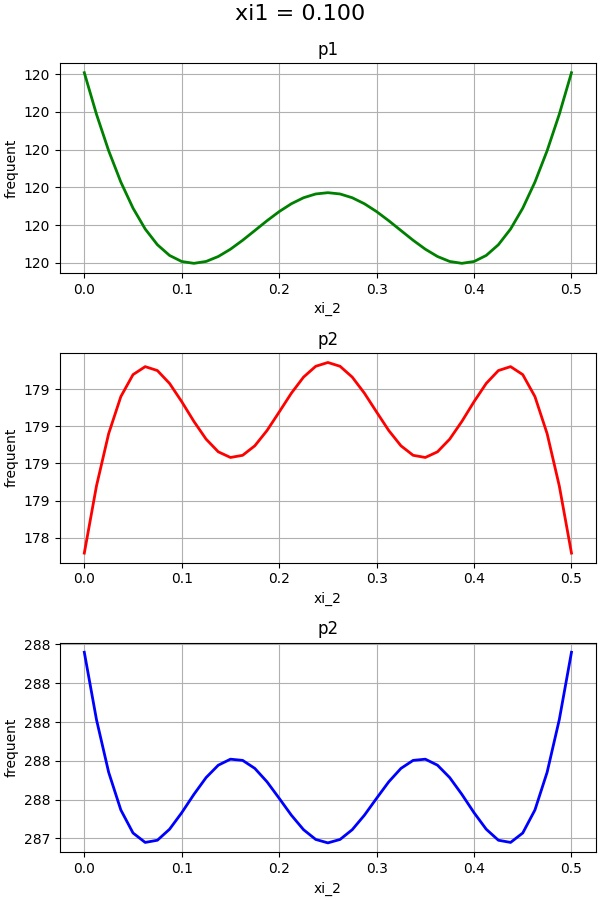
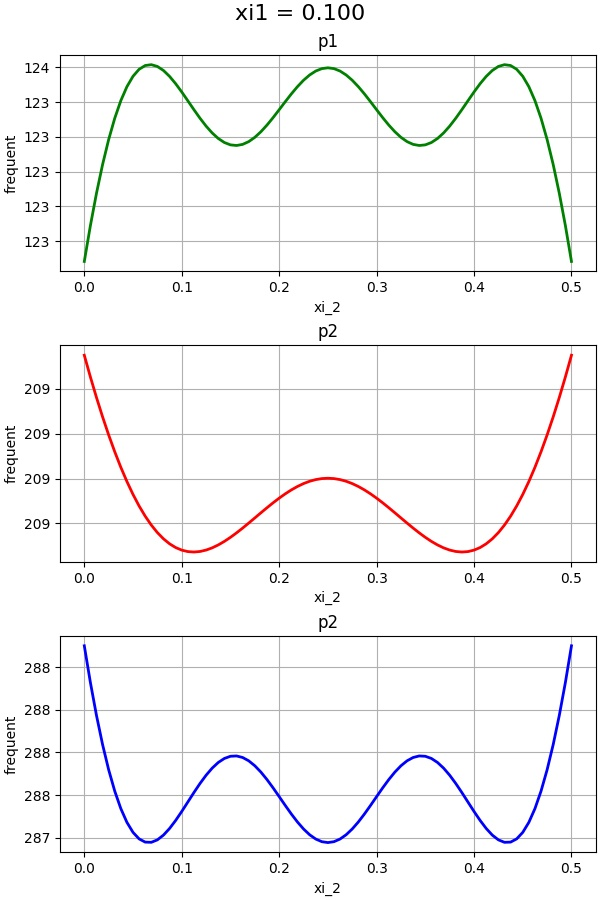
Исправленные коэффициенты

diff --git a/Plate/SubsValues.py b/Plate/SubsValues.py
@@ -4,7 +4,7 @@ from sympy import symbols, Matrix, sqrt
 
 
 def subs_values():
-    a, b, E, mu, D, k, k_rez, rho, h, p0, b_a, h_r, k0, N0, m0 = symbols('a b E mu D k k_rez rho h p0_2 b_a h0 k0 N0 m0', real=True)
+    a, b, E, mu, D, k, k_rez, k_len, rho, h, p0, b_a, h_r, k0, N0, m0 = symbols('a b E mu D k k_rez k_len rho h p0_2 b_a h0 k0 N0 m0', real=True)
     M_rol, A_len, l_len, E_len, h_r = symbols('M_rol A_len l_len E_len h_r', real=True)
     kappa1, kappa2, kappa3, kappa4 = symbols('kappa1 kappa2 kappa3 kappa4', real=True)
     """
@@ -14,7 +14,6 @@ def subs_values():
         k - жесткость пружин Ролика и Пластины (конусная бабка моделируется пружиной)
         k_rez - коэффициент резания = предел текучести материала пластины * ширину ленты
         k_len - жесткость поджатия пружины
-        k_rez - жесткость "резания"
         rho - плотность материала пластины
         h - толщина пластины
 
@@ -35,8 +34,8 @@ def subs_values():
     values[k0] = values[h_r] / values[a]
     kappa = dict()
     values[p0] = sqrt(values[D] / (values[rho] * values[h] * values[a] ** 4))
-    kappa[kappa1] = (values[k] + values[E_len] * values[A_len] / values[l_len]) / (values[M_rol] * values[p0])
-    kappa[kappa2] = (values[k_rez]) / (values[M_rol] * values[p0])
+    kappa[kappa1] = (values[k_len] + values[E_len] * values[A_len] / values[l_len]) / (values[M_rol] * values[p0]**2)
+    kappa[kappa2] = (values[k_rez]) / (values[M_rol] * values[p0]**2)
     kappa[kappa3] = (values[k] * values[a] ** 2) / (values[D])
     kappa[kappa4] = (values[k_rez] * values[a] ** 2) / (values[D])
 
@@ -53,7 +52,62 @@ def subs_values():
     M = M.subs(mu, values[mu])
     C = C.subs(mu, values[mu])
     F = F.subs(k0, values[k0])
-    coeffs = np.array([values[N0]/(values[m0] * values[p0]**2 * values[a]**2), values[A_len] * values[E_len]/(values[m0] * values[p0]**2 * values[a]**2)])
+    coeffs = np.array([values[N0]/(values[m0] * values[p0]**2 * values[a]**2), values[A_len] * values[E_len]/(values[m0] * values[p0]**2 * values[a]**2), values[k0]])
     print(kappa)
     print(values)
     return M, C, F, float(values[b] / values[a]), coeffs
+
+
+def subs_values_no_force():
+    a, b, E, mu, D, k, k_rez, k_len, rho, h, p0, b_a, h_r, k0, N0, m0 = symbols('a b E mu D k k_rez k_len rho h p0_2 b_a h0 k0 N0 m0', real=True)
+    M_rol, A_len, l_len, E_len, h_r = symbols('M_rol A_len l_len E_len h_r', real=True)
+    kappa1, kappa2, kappa3, kappa4 = symbols('kappa1 kappa2 kappa3 kappa4', real=True)
+    """
+        a - длина пластины
+        b - ширина пластины
+        E, mu, D - модуль Юнга, коэффициент Пуассона, цилиндрическая жесткость пластины
+        k - жесткость пружин Ролика и Пластины (конусная бабка моделируется пружиной)
+        k_rez - коэффициент резания = предел текучести материала пластины * ширину ленты
+        k_len - жесткость поджатия пружины
+        rho - плотность материала пластины
+        h - толщина пластины
+
+        M_rol - масса ролика
+        A_len - площадь сечения ленты
+        l_len - длина ленты (расстояние от шарнира до ролика)
+        E_len - модуль Юнга ленты
+        h_r - толшина резания (толщина снимаемого слоя материала)
+        m0 - плотность ленты
+        N0 - сила преднатяга ленты
+        V - скорость ленты
+
+    """
+    # считываем характеристики материалов и прочее из файла data.txt
+    values = read_data()
+
+    values[D] = values[E] * values[h] ** 3 / (12 * (1 - values[mu] ** 2))
+    values[k0] = values[h_r] / values[a]
+    kappa = dict()
+    values[p0] = sqrt(values[D] / (values[rho] * values[h] * values[a] ** 4))
+    kappa[kappa1] = (values[k_len] + values[E_len] * values[A_len] / values[l_len]) / (values[M_rol] * values[p0]**2)
+    kappa[kappa2] = 0
+    kappa[kappa3] = (values[k] * values[a] ** 2) / (values[D])
+    kappa[kappa4] = 0
+
+    # загружаем матрицы масс и жесткости
+    M = Matrix(np.load(r"F:\NIR_4th_semestr\M_Matrix.npy", allow_pickle=True))
+    C = Matrix(np.load(r"F:\NIR_4th_semestr\C_Matrix.npy", allow_pickle=True))
+    F = Matrix(np.load(r"F:\NIR_4th_semestr\F_vector.npy", allow_pickle=True))
+    # подставляем значения параметров в матрицы (кроме координат контакта)
+    for x in kappa:
+        M = M.subs(x, kappa[x])
+        C = C.subs(x, kappa[x])
+        F = F.subs(x, kappa[x])
+
+    M = M.subs(mu, values[mu])
+    C = C.subs(mu, values[mu])
+    F = F.subs(k0, values[k0])
+    coeffs = np.array([values[N0]/(values[m0] * values[p0]**2 * values[a]**2), values[A_len] * values[E_len]/(values[m0] * values[p0]**2 * values[a]**2), values[k0]])
+    print(kappa)
+    print(values)
+    return M, C, F

diff --git a/amplitude_force/amplitude.py b/amplitude_force/amplitude.py
@@ -1,29 +1,55 @@
 from scipy.integrate import odeint
 import matplotlib.pyplot as plt
 from sympy import symbols, Matrix
-from Plate.SubsValues import subs_values
+from Plate.SubsValues import subs_values, subs_values_no_force
 import numpy as np
 import time
 
 xi1__, xi2__ = symbols('xi1__ xi2__', real=True)
-M, C, F, b_a, f0_kappa0 = subs_values()
-xi1, xi2 = 0.6, 0.3
+M, C, F, b_a, f0_kappa0_k0 = subs_values()
+M_nf, C_nf, F_nf = subs_values_no_force()
+
+xi1, xi2 = 0.5, 0.3
 M = M.subs([(xi1__, xi1), (xi2__, xi2)])
 C = C.subs([(xi1__, xi1), (xi2__, xi2)])
 F = F.subs([(xi1__, xi1), (xi2__, xi2)])
+
+M_nf = M_nf.subs([(xi1__, xi1), (xi2__, xi2)])
+C_nf = C_nf.subs([(xi1__, xi1), (xi2__, xi2)])
+F_nf = F_nf.subs([(xi1__, xi1), (xi2__, xi2)])
+
+
 print(M)
 print(C)
 print(F)
-vect = np.array(M.inv() * F)
-matr = np.array(M.inv() * C)
+vect_plus = np.array(M.inv() * F)
+vect_minus = np.array(M_nf.inv() * F_nf)
+
+matr_plus = np.array(M.inv() * C)
+matr_minus = np.array(M_nf.inv() * C_nf)
+
 print()
-print(matr)
-print(vect)
+print(matr_plus)
+print(vect_plus)
+print()
+print(f0_kappa0_k0)
+u1 = np.load(r"F:\NIR_4th_semestr\U1.npy", allow_pickle=True)
+u2 = np.load(r"F:\NIR_4th_semestr\U2.npy", allow_pickle=True)
+
+u1 = u1[0].subs([(xi1__, xi1), (xi2__, xi2)])
+u2 = u2[0].subs([(xi1__, xi1), (xi2__, xi2)])
 
 
 def system(y, t):
     etta, d_etta, f1, d_f1, f2, d_f2 = y
-    dydt = [d_etta, vect[0][0] - (matr[0][0]*etta + matr[0][1]*f1 + matr[0][2]*f2), d_f1, vect[1][0] - ((matr[1][0]*etta + matr[1][1]*f1 + matr[1][2]*f2)),d_f2, vect[2][0] - ((matr[2][0]*etta + matr[2][1]*f1 + matr[2][2]*f2))]
+    if etta - u1*f1 - u2*f2 - f0_kappa0_k0[2] > 0:
+        dydt = [d_etta, vect_plus[0][0] - (matr_plus[0][0] * etta + matr_plus[0][1] * f1 + matr_plus[0][2] * f2),
+                d_f1, vect_plus[1][0] - (matr_plus[1][0] * etta + matr_plus[1][1] * f1 + matr_plus[1][2] * f2),
+                d_f2, vect_plus[2][0] - (matr_plus[2][0] * etta + matr_plus[2][1] * f1 + matr_plus[2][2] * f2)]
+    else:
+        dydt = [d_etta, vect_minus[0][0] - (matr_minus[0][0] * etta + matr_minus[0][1] * f1 + matr_minus[0][2] * f2),
+                d_f1, vect_minus[1][0] - (matr_minus[1][0] * etta + matr_minus[1][1] * f1 + matr_minus[1][2] * f2),
+                d_f2, vect_minus[2][0] - (matr_minus[2][0] * etta + matr_minus[2][1] * f1 + matr_minus[2][2] * f2)]
     return dydt
 
 
@@ -34,13 +60,14 @@ def system1(y, t):
 
 
 etta_0, f1_0, f2_0 = 0.1, 0., 0.
-y0 = [etta_0, 0.0, f1_0, 0.0, f2_0, 0.0]
-t = np.linspace(0, 0.6, 10001)
+detta_0, df1_0, df2_0 = 0., 0., 0.
+y0 = [etta_0, detta_0, f1_0, df1_0, f2_0, df2_0]
+t = np.linspace(0, 1, 10001)
 
 
 result = odeint(system, y0, t)
 
-
+plt.figure('displacement')
 plt.plot(t, result[:, 0], 'b', label='etta(t)')
 plt.plot(t, result[:, 2], 'g', label='f1(t)')
 plt.plot(t, result[:, 4], 'r', label='f2(t)')
@@ -48,4 +75,13 @@ plt.grid()
 plt.title('etta_0 = ' + str(etta_0) + '; ' + 'f1_0 = ' + str(f1_0) + '; ' + 'f2_0 = ' + str(f2_0))
 plt.legend(loc='best')
 plt.xlabel('t')
+
+plt.figure('force')
+plt.plot(t, f0_kappa0_k0[0] - f0_kappa0_k0[1] * result[:, 0], 'b', label='T')
+plt.grid()
+plt.title('Force')
+plt.legend(loc='best')
+plt.xlabel('t')
+
 plt.show()
+

diff --git a/Plate/PlateForms.py b/Plate/PlateForms.py
@@ -2,6 +2,7 @@ from sympy import symbols, diff, simplify, nsolve, sin, sinh
 from Plate.ReadData import read_data
 from Plate.MC_matrix import MC_matrix
 from Plate.PlotGraphs import plot_forms
+import numpy as np
 
 # Вспомогательные переменные
 x, t, xi1, xi2, xi1__, xi2__ = symbols('x t xi1 xi2 xi1__ xi2__', real=True)
@@ -39,6 +40,12 @@ fi1 = fi.subs(alpha_, alfa1)
 fi2 = fi.subs(alpha_, alfa2)
 psi1 = psi.subs(lambda_, lambda1)
 psi2 = psi.subs(lambda_, lambda2)
+
+u1 = np.array([fi1.subs(xi1, xi1__) * psi1.subs(xi2, xi2__)])
+u2 = np.array([fi2.subs(xi1, xi1__) * psi2.subs(xi2, xi2__)])
+
+np.save('U1', u1)
+np.save('U2', u2)
 
 # построение детерминантов и форм
 plot_forms(b_a, Eq1, Eq2, fi1, fi2, psi1, psi2)

diff --git a/Plate/MC_matrix.py b/Plate/MC_matrix.py
@@ -36,6 +36,7 @@ def MC_matrix(b_a, fi1, psi1, fi2, psi2):
     u1 = fi1.subs(xi1, xi1__)*psi1.subs(xi2, xi2__)
     u2 = fi2.subs(xi1, xi1__)*psi2.subs(xi2, xi2__)
 
+
     c11 = a_11 + 2 * kappa4 * u1 ** 2
     c12 = a_12 + 2 * kappa4 * u1 * u2
     c21 = a_21 + 2 * kappa4 * u1 * u2
@@ -47,7 +48,7 @@ def MC_matrix(b_a, fi1, psi1, fi2, psi2):
         [-kappa4 * u2, c21, c22]
     ])
 
-    F = np.array([-kappa2 * k0, kappa4*u1*k0, kappa4*u2*k0])
+    F = np.array([-kappa2 + kappa2, kappa4*u1*k0, kappa4*u2*k0])
 
     np.save('M_Matrix', M)
     np.save('C_Matrix', C)

diff --git a/Plate/PrintNaturalFreq.py b/Plate/PrintNaturalFreq.py
@@ -9,7 +9,7 @@ from Plate.SubsValues import subs_values
 p = Symbol("p")
 xi1__, xi2__ = symbols('xi1__ xi2__', real=True)
 
-M, C, b_a = subs_values()
+M, C, F, b_a, f0_kappa0 = subs_values()
 
 
 def print_freq(i, xi, mesh, p1, p2, p3):
@@ -43,7 +43,7 @@ def plot_grapghs(n_px=11, n_py=81):
     # разбиваем пластину сеткой (точки контакта)
     mesh1 = np.linspace(0.0, 1.0, n_px)
     mesh2 = np.linspace(0., b_a, n_py)
-    os.chdir(r"/figures")
+    os.chdir(r"F:\NIR_4th_semestr\figures")
     i = 0
 
     for xi1 in mesh1:
